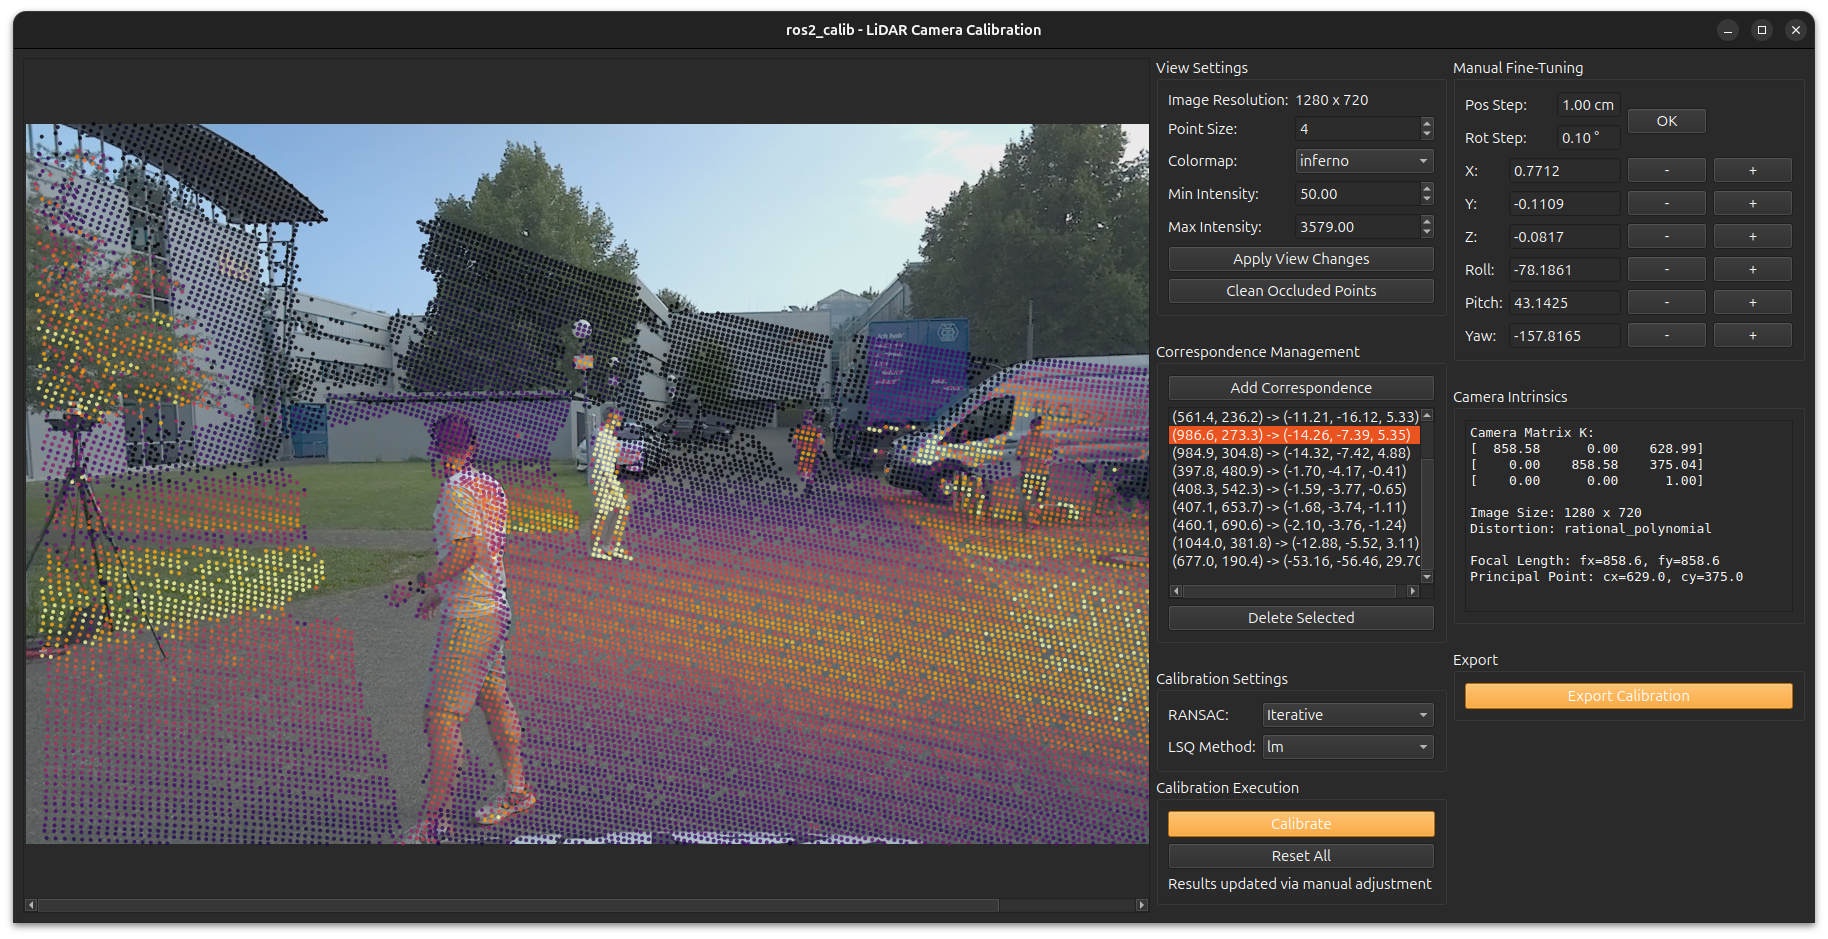
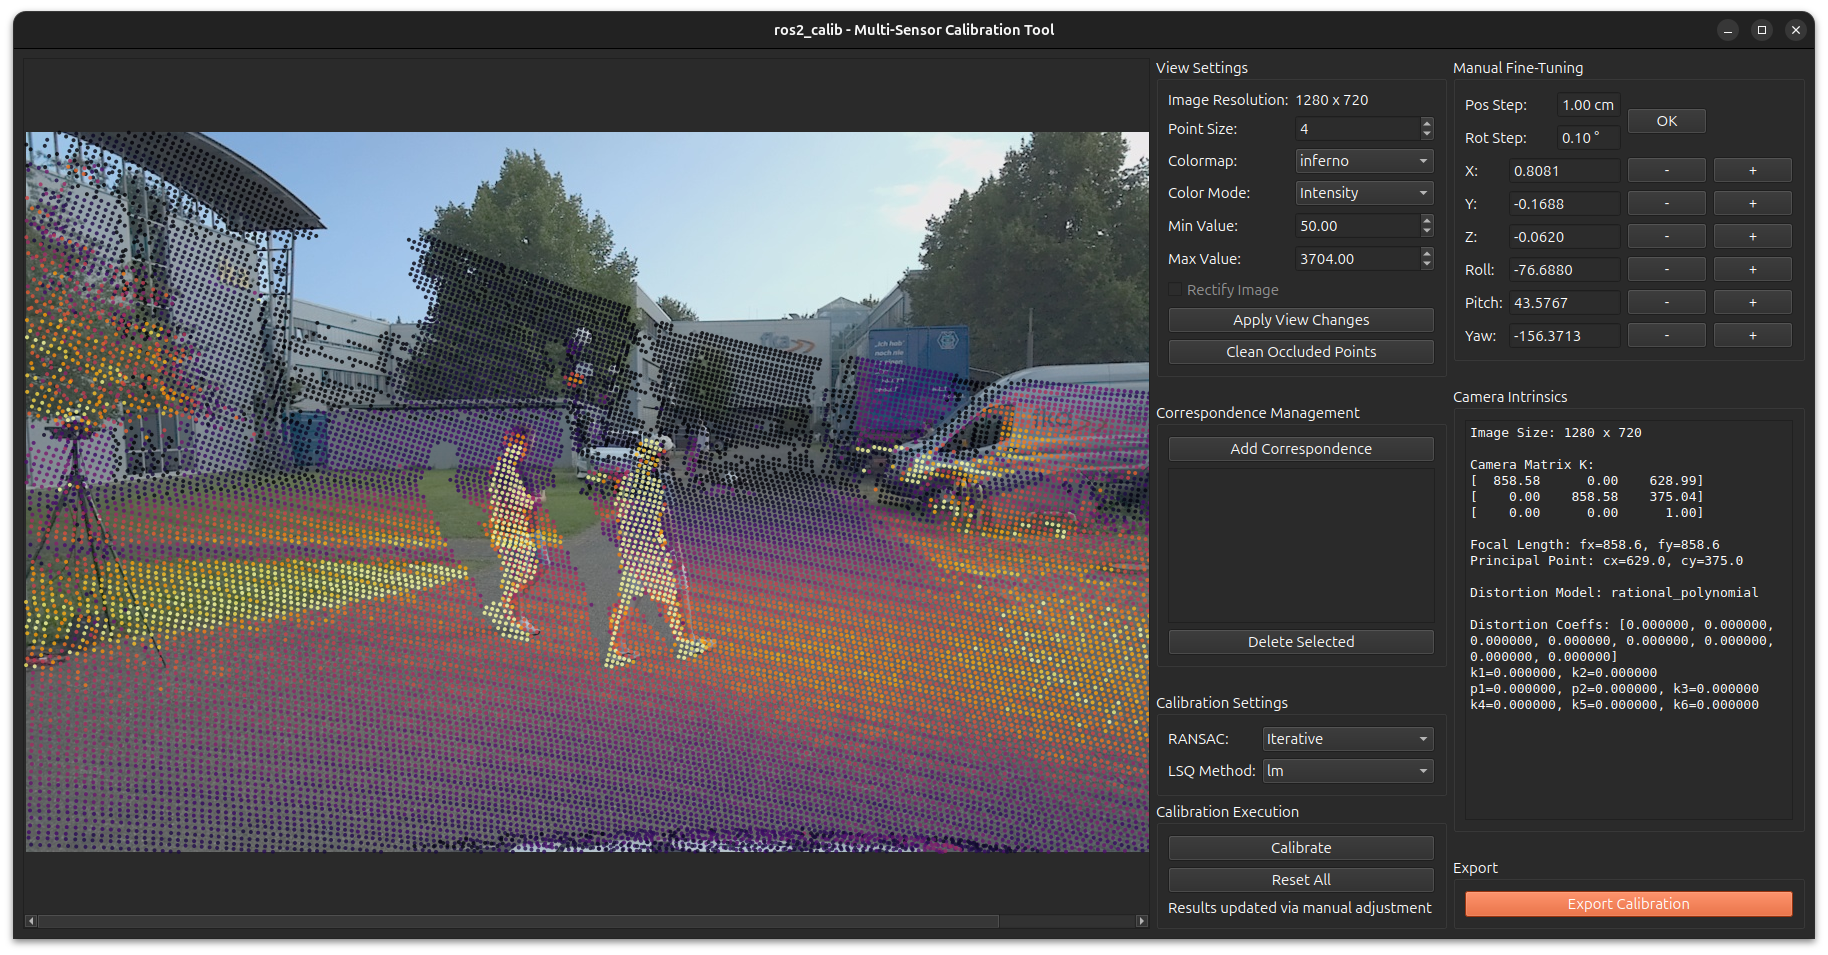
update README.md and screenshots

diff --git a/README.md b/README.md
@@ -26,14 +26,14 @@
 
 ## Screenshots
 
+### Start Window with Calibration Type Selection
+![Start Window](assets/start_view.png)
+
 ### Rosbag Loading and Topic Selection
 ![Topic View](assets/topic_view.png)
 
 ### TF Tree Visualization and Initial Transform Selection
 ![Transform View](assets/tree_view.png)
-
-### Frame Selection (LiDAR-to-Camera)
-![Frame Selection](assets/frame_selection_view.png)
 
 ### LiDAR-to-Camera Calibration Interface
 ![LiDAR-to-Camera Calibration](assets/calibration_view.png)
@@ -54,11 +54,11 @@
 - **⌨ Keyboard Shortcuts**: ESC to cancel, Backspace to delete, Enter to confirm
 
 ### LiDAR-to-LiDAR Calibration
-- **🎮 3D Interactive Interface**: Open3D-based real-time point cloud visualization
+- **🎮 3D Interactive Interface**: Open3D-based point cloud visualization
 - **🔧 Manual Adjustment**: Precise transformation controls with step-size configuration
 - **🤖 Automatic Registration**: Point-to-point and point-to-plane ICP algorithms
 - **👁 Dual Visualization**: Independent control over source and target point cloud visibility
-- **📊 Real-time Feedback**: Live transformation matrix updates and registration metrics
+- **📊 Calibration View**: Live transformation matrix updates and registration metrics
 
 ### General Features
 - **🌳 TF Tree Integration**: Visual transform chain management and URDF export
@@ -75,7 +75,7 @@
 
 ### Rosbag Requirements
 
-Your rosbag file (`.mcap` format) should contain the following topics:
+Your rosbag file (`.mcap` format, tested with Jazzy and Humble) should contain the following topics:
 
 **For LiDAR-to-Camera Calibration:**
 - **Camera topics**: `/camera/image_raw` or `/camera/image_rect`
